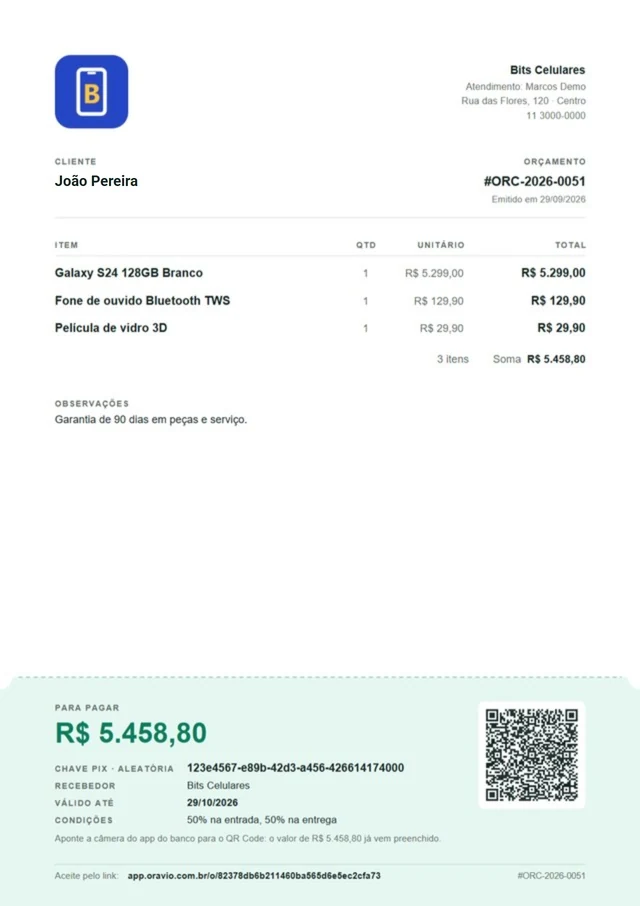
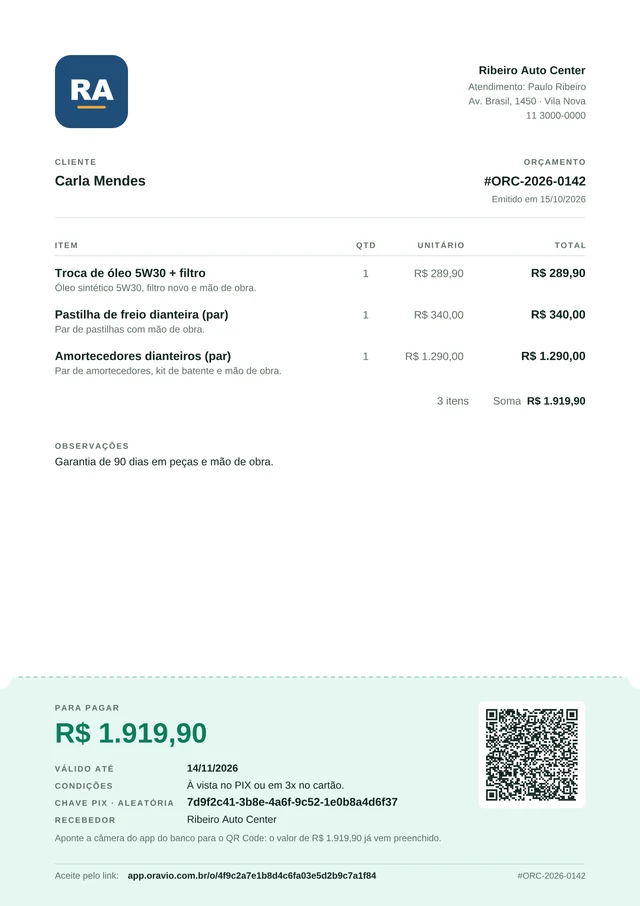
Exemplo novo: a oficina Ribeiro Auto Center (Carla Mendes, R$ 1.919,90)
Os prints do laço e dos três passos saem de novo do app de verdade, rodando
contra o Supabase falso, com o exemplo da oficina, nos temas claro e escuro.
A folha do PDF agora é o PDF real, gerado pela mesma função do app; antes era
uma foto antiga com o nome do cliente remendado por cima.

O balão, o total, o aviso de aceite, os textos alternativos e o llms.txt
acompanham. As medidas do palco saíram iguais, então o CSS do laço não mudou.

Dados e como refazer: docs/landing.md no repositório do app ("O exemplo").

diff --git a/index.html b/index.html
@@ -109,13 +109,13 @@
   </div>
 
   <!-- O PALCO: o aparelho inteiro, e nele o LAÇO — um trailer de ~12 s dos três passos,
-       montado com prints do app de verdade (dados inventados, cliente fictício João
-       Pereira, o mesmo orçamento de R$ 5.458,80 do resto da página). Cada print é uma
+       montado com prints do app de verdade (dados inventados, oficina fictícia e a cliente
+       Carla Mendes, o mesmo orçamento de R$ 1.919,90 do resto da página). Cada print é uma
        CAMADA no lugar exato em que ela fica na tela do app (as medidas saem da captura,
        em pontos da tela de 393, ver --pt no estilo.css):
          Início parada → o dedo segura o microfone e o campo grava (o balão com a frase
          aparece ao lado) → a espera "Transcrevendo o áudio..." → a Confira: os itens
-         entram um a um e o total conta → o PDF sai do aparelho → "João aceitou".
+         entram um a um e o total conta → o PDF sai do aparelho → "Carla aceitou".
        Só a primeira camada (a Início) vem com endereço no HTML; as outras ganham o
        endereço depois do `load`, e o laço espera todas estarem prontas. Sem JS, fica a
        Início. Com "reduzir movimento", fica o quadro da Confira, parado (com o balão ao lado, no computador).
@@ -147,14 +147,14 @@
             <div class="laco-item i1" style="--y:366.5"><picture><source media="(prefers-color-scheme: dark)" data-srcset="tela-conferir-escuro.webp"><img data-src="tela-conferir-claro.webp" width="640" height="1387" decoding="async" alt=""></picture></div>
             <div class="laco-item i2" style="--y:466.5"><picture><source media="(prefers-color-scheme: dark)" data-srcset="tela-conferir-escuro.webp"><img data-src="tela-conferir-claro.webp" width="640" height="1387" decoding="async" alt=""></picture></div>
             <div class="laco-item i3" style="--y:566.5"><picture><source media="(prefers-color-scheme: dark)" data-srcset="tela-conferir-escuro.webp"><img data-src="tela-conferir-claro.webp" width="640" height="1387" decoding="async" alt=""></picture></div>
-            <span class="laco-total">R$ 5.458,80</span>
+            <span class="laco-total">R$ 1.919,90</span>
             <span class="laco-toque laco-toque-mic"></span>
             <span class="laco-toque laco-toque-salvar"></span>
             <!-- O aviso tem o desenho da "boa notícia" da Início do app (components/inicio-mesa.tsx). -->
             <div class="laco-aviso">
               <span class="selo"><svg viewBox="0 0 24 24" fill="none" stroke="currentColor" stroke-width="3" stroke-linecap="round" stroke-linejoin="round"><path d="M20 6 9 17l-5-5"/></svg></span>
-              <span class="laco-aviso-texto"><b>João aceitou</b><span>Pelo link · agora</span></span>
-              <span class="laco-aviso-valor"><small>R$ </small>5.458,80</span>
+              <span class="laco-aviso-texto"><b>Carla aceitou</b><span>Pelo link · agora</span></span>
+              <span class="laco-aviso-valor"><small>R$ </small>1.919,90</span>
             </div>
           </div>
         </div>
@@ -162,7 +162,7 @@
     </div>
     <blockquote class="laco-balao" aria-hidden="true">
       <span class="fala-quem"><svg width="14" height="14" viewBox="0 0 24 24" fill="none" stroke="currentColor" stroke-width="2.2" stroke-linecap="round"><rect x="9" y="3" width="6" height="11" rx="3"/><path d="M5 11a7 7 0 0 0 14 0M12 18v3"/></svg>Você, no balcão</span>
-      <p>“Orçamento pro João Pereira. Um Galaxy S24 128 giga branco, um fone bluetooth TWS e uma película de vidro 3D.”</p>
+      <p>“Orçamento pra Carla Mendes, Onix 2019. Troca de óleo com filtro, pastilha de freio da frente e amortecedores da frente.”</p>
     </blockquote>
     <img class="laco-folha" data-src="folha-pdf.webp" width="640" height="906" decoding="async" alt="" aria-hidden="true">
     <!-- Pausar (WCAG 2.2.2: movimento que dura mais de 5 s precisa de um jeito de parar). -->
@@ -211,7 +211,7 @@
           <h2>Descreva do jeito que você já fala.</h2>
           <p class="step-lead">Segura o microfone e fala o serviço — ou digita, se preferir. Sem formulário no meio do atendimento.</p>
           <div class="checklist">
-            <div class="c"><svg width="20" height="20" viewBox="0 0 24 24" fill="none" stroke="currentColor" stroke-width="2.4" aria-hidden="true"><path d="M20 6 9 17l-5-5"/></svg><span>Apelido, marca pela metade, “blutufi”: ele entende — e aprende como a sua loja chama cada item.</span></div>
+            <div class="c"><svg width="20" height="20" viewBox="0 0 24 24" fill="none" stroke="currentColor" stroke-width="2.4" aria-hidden="true"><path d="M20 6 9 17l-5-5"/></svg><span>Apelido, nome pela metade, “pastilha da frente”: ele entende — e aprende como você chama cada item.</span></div>
             <div class="c"><svg width="20" height="20" viewBox="0 0 24 24" fill="none" stroke="currentColor" stroke-width="2.4" aria-hidden="true"><path d="M20 6 9 17l-5-5"/></svg><span>Sem sinal na casa do cliente? Monte à mão e salve no aparelho — sobe sozinho quando a internet volta.</span></div>
           </div>
         </div>
@@ -225,7 +225,7 @@
           <div class="fala">
             <blockquote class="fala-frase">
               <span class="fala-quem"><svg width="14" height="14" viewBox="0 0 24 24" fill="none" stroke="currentColor" stroke-width="2.2" stroke-linecap="round" aria-hidden="true"><rect x="9" y="3" width="6" height="11" rx="3"/><path d="M5 11a7 7 0 0 0 14 0M12 18v3"/></svg>Você, no balcão</span>
-              <p>“Um Galaxy S24, 128 GB branco, um fone Bluetooth TWS e uma película de vidro 3D.”</p>
+              <p>“Orçamento pra Carla Mendes, Onix 2019. Troca de óleo com filtro, pastilha de freio da frente e amortecedores da frente.”</p>
             </blockquote>
             <figure class="campo">
               <div class="campo-telas">
@@ -263,7 +263,7 @@
             <div class="fone">
               <picture>
                 <source media="(prefers-color-scheme: dark)" srcset="tela-conferir-escuro.webp">
-                <img src="tela-conferir-claro.webp" width="640" height="1387" loading="lazy" decoding="async" alt="Tela de conferência do Oravio: a frase falada no topo, o cliente João Pereira, três itens com o preço da tabela e quantidade ajustável, e o total de R$ 5.458,80 ao lado do botão Salvar">
+                <img src="tela-conferir-claro.webp" width="640" height="1387" loading="lazy" decoding="async" alt="Tela de conferência do Oravio: a frase falada no topo, a cliente Carla Mendes, três itens com o preço da tabela e quantidade ajustável, e o total de R$ 1.919,90 ao lado do botão Salvar">
               </picture>
             </div>
             <figcaption>A mesma frase, já virada em três itens.</figcaption>
@@ -289,7 +289,7 @@
                e cortá-lo esconderia justo o que é novo. É o mesmo orçamento dos
                passos 1 e 2. -->
           <figure class="paper">
-            <img src="folha-pdf.webp" width="640" height="906" loading="lazy" decoding="async" alt="PDF do orçamento: logo e dados da Bits Celulares no topo; cliente João Pereira; Galaxy S24 128GB Branco, fone Bluetooth TWS e película de vidro 3D; no pé da folha, o canhoto para pagar R$ 5.458,80 com chave PIX, QR Code e o link para aceitar">
+            <img src="folha-pdf.webp" width="640" height="906" loading="lazy" decoding="async" alt="PDF do orçamento: logo e dados da oficina Ribeiro Auto Center no topo; cliente Carla Mendes; troca de óleo com filtro, pastilha de freio dianteira e amortecedores dianteiros; no pé da folha, o canhoto para pagar R$ 1.919,90 com chave PIX, QR Code e o link para aceitar">
             <figcaption>O mesmo orçamento, em PDF — é isto que chega pro seu cliente.</figcaption>
           </figure>
         </div>
@@ -383,7 +383,7 @@
     if(!palco)return;
     var fone=palco.querySelector('.palco-fone'), relogio=palco.querySelector('.laco-relogio'),
         total=palco.querySelector('.laco-total'), botao=palco.querySelector('.laco-botao');
-    var VOLTAS=3, VOLTA=12000, PARA_EM=6300, VALOR=5458.8, GRAVA=950, CONTA=[5350,700];
+    var VOLTAS=3, VOLTA=12000, PARA_EM=6300, VALOR=1919.9, GRAVA=950, CONTA=[5350,700];
     var ROTEIRO=[[0,'inicio'],[800,'toque'],[GRAVA,'gravando'],[2000,'balao'],[3600,'solta'],[3750,'espera'],[4250,'confira'],
       [4550,'item1'],[4770,'item2'],[4990,'item3'],[CONTA[0],'total'],[6100,'contou'],[6400,'salvar'],[7000,'pdf'],[9400,'aceite'],[11200,'volta']];
     var CLASSES=ROTEIRO.map(function(r){return r[1];}).filter(function(c){return c!=='inicio'&&c!=='volta';});

diff --git a/estilo.css b/estilo.css
@@ -50,7 +50,7 @@
     --shadow:0 4rem 9rem -3rem rgba(19,36,32,.34);
     --shadow-sm:0 1.8rem 4rem -1.8rem rgba(19,36,32,.3);
     --shadow-card:0 2.4rem 6rem -2.8rem rgba(19,36,32,.3);
-    /* A sombra do aviso "João aceitou", dentro da tela do aparelho (o laço do topo). */
+    /* A sombra do aviso "Carla aceitou", dentro da tela do aparelho (o laço do topo). */
     --sombra-aviso:0 .8rem 2.4rem -.8rem rgba(19,36,32,.28);
     --ease-out:cubic-bezier(.23,1,.32,1); --ease-in-out:cubic-bezier(.77,0,.175,1);
     /* O coral do "gravando" do app: vermelho só aparece quando o microfone está aberto.
